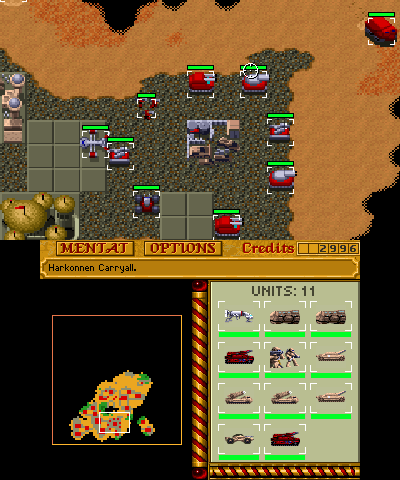
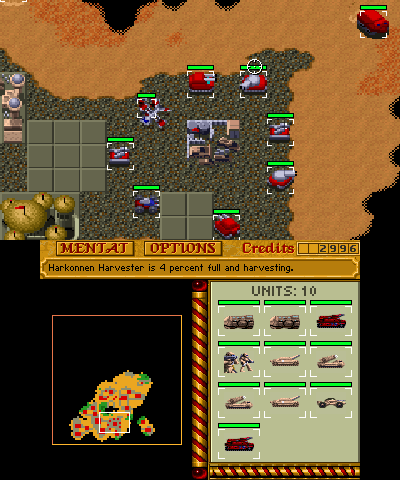
Move squad card HP bars above portraits and update gameplay screenshots

diff --git a/src/gui/gui_3ds.c b/src/gui/gui_3ds.c
@@ -2776,7 +2776,7 @@ static void PanelStructureStatusBox(Structure *s,const StructureInfo *si)
 	}
 }
 
-static bool DrawSquadPanel(void)
+ static bool DrawSquadPanel(void)
 {
  Unit *units[MAX_SELECTED_UNITS]; int count=0;
  for(uint16 i=0;i<g_selectedUnitsCount && count<MAX_SELECTED_UNITS;i++) {
@@ -2791,19 +2791,21 @@ static bool DrawSquadPanel(void)
   int x=177+(i%3)*46, y=60+(i/3)*41;
   if(i>=visible) {
    char more[16]; snprintf(more,sizeof(more),"+%d",count-visible);
-   BattleText(x+22,y+13,more,g_fontNew8p,TC_TEXT,false);
+   BattleText(x+22,y+18,more,g_fontNew8p,TC_TEXT,false);
    continue;
   }
   Unit *u=units[i];
-  /* Skip the white frame baked into the original portrait. */
-  BattlePortrait(x+2,y+2,40,28,g_table_unitInfo[u->o.type].o.spriteID,1);
-  DrawSelectionCorners(g_bottomScreenBuffer, g_bottomScreenUIMask, BOTTOM_WIDTH,
-    x+1, y+1, x+42, y+30, 6);
   uint32 maxHP=g_table_unitInfo[u->o.type].o.hitpoints;
-  uint8 color=u->o.hitpoints<=maxHP/4 ? TC_RED : u->o.hitpoints<=maxHP/2 ? TC_YELLOW : TC_GREEN;
-  int fill=maxHP ? min(40,(int)((uint32)u->o.hitpoints*40/maxHP)) : 0;
-  GUI_3DS_FillRect(g_bottomScreenBuffer,320,x+2,y+32,x+41,y+36,TC_SHADOW);
-  if(fill) GUI_3DS_FillRect(g_bottomScreenBuffer,320,x+2,y+32,x+1+fill,y+36,color);
+  uint32 hp=min((uint32)u->o.hitpoints,maxHP);
+  uint8 color=hp<=maxHP/4 ? TC_RED : hp<=maxHP/2 ? TC_YELLOW : TC_GREEN;
+  int fill=maxHP ? min(40,(int)(hp*40/maxHP)) : 0;
+  /* Health bar above unit portrait matches the top-screen unit marker style. */
+  DrawMarkerRect(g_bottomScreenBuffer, g_bottomScreenUIMask, BOTTOM_WIDTH, x+1, y, x+42, y+4, TC_BLACK);
+  if(fill>0) DrawMarkerRect(g_bottomScreenBuffer, g_bottomScreenUIMask, BOTTOM_WIDTH, x+2, y+1, x+1+fill, y+3, color);
+  /* Skip the white frame baked into the original portrait. */
+  BattlePortrait(x+2,y+7,40,28,g_table_unitInfo[u->o.type].o.spriteID,1);
+  DrawSelectionCorners(g_bottomScreenBuffer, g_bottomScreenUIMask, BOTTOM_WIDTH,
+    x+1, y+6, x+42, y+35, 6);
   PanelAddHit(x,y,44,39,HIT_SQUAD_UNIT,u->o.index);
  }
  return true;

diff --git a/scripts/test_3ds_ui.c b/scripts/test_3ds_ui.c
@@ -408,12 +408,13 @@ int main(void)
     g_selectedUnitsCount=12; g_unitSelected=&squad[0]; g_selectionType=SELECTIONTYPE_UNIT;
     GUI_3DS_RenderBottomScreen(); assert(s_panelHitCount==12);
     assert(s_panelHits[11].x==269 && s_panelHits[11].y==183);
-    assert(g_bottomScreenBuffer[61*320+178]==TC_WHITE);
-    assert(g_bottomScreenBuffer[61*320+199]==TC_FACE); /* Open between the corners. */
-    assert(g_bottomScreenBuffer[75*320+178]==TC_FACE);
+    assert(g_bottomScreenBuffer[66*320+178]==TC_WHITE);
+    assert(g_bottomScreenBuffer[66*320+199]==TC_FACE); /* Open between the corners. */
+    assert(g_bottomScreenBuffer[80*320+178]==TC_FACE);
     GUI_3DS_HandleBottomTouch(235,80); assert(individualSelection==&squad[1]);
     g_selectedUnitsCount=22; GUI_3DS_RenderBottomScreen(); assert(s_panelHitCount==11);
-    assert(g_bottomScreenBuffer[(60+32)*320+179]==TC_RED); /* Per-unit health. */
+    assert(g_bottomScreenBuffer[60*320+178]==TC_BLACK && g_bottomScreenBuffer[64*320+178]==TC_BLACK); /* Bordered health bar above corners. */
+    assert(g_bottomScreenBuffer[61*320+179]==TC_RED && g_bottomScreenBuffer[65*320+178]==TC_FACE); /* Per-unit health + 1px gap. */
     Preview("squad-overflow");
     individualSelection=NULL; GUI_3DS_HandleBottomTouch(294,200); assert(individualSelection==NULL);
     squad[1].o.flags.s.allocated=false;

diff --git a/README.md b/README.md
@@ -42,9 +42,9 @@ All screenshots below were captured directly from the Nintendo 3DS build running
 
 ### Gameplay
 
-| Multi-Unit Selection | Spice Harvesting |
+| Dual Screen Gameplay | Multi-Unit Selection |
 | :---: | :---: |
-| ![Level 9 Gameplay with Tanks](docs/screenshots/gameplay_tanks.png) | ![Level 9 Spice Harvesting](docs/screenshots/gameplay_harvesting.png) |
+| ![Dual Screen Gameplay](docs/screenshots/dual_screen_gameplay.png) | ![Multi-Unit Selection](docs/screenshots/gameplay_tanks.png) |
 
 ### Building Construction, Buying Tanks & House Palace
 
